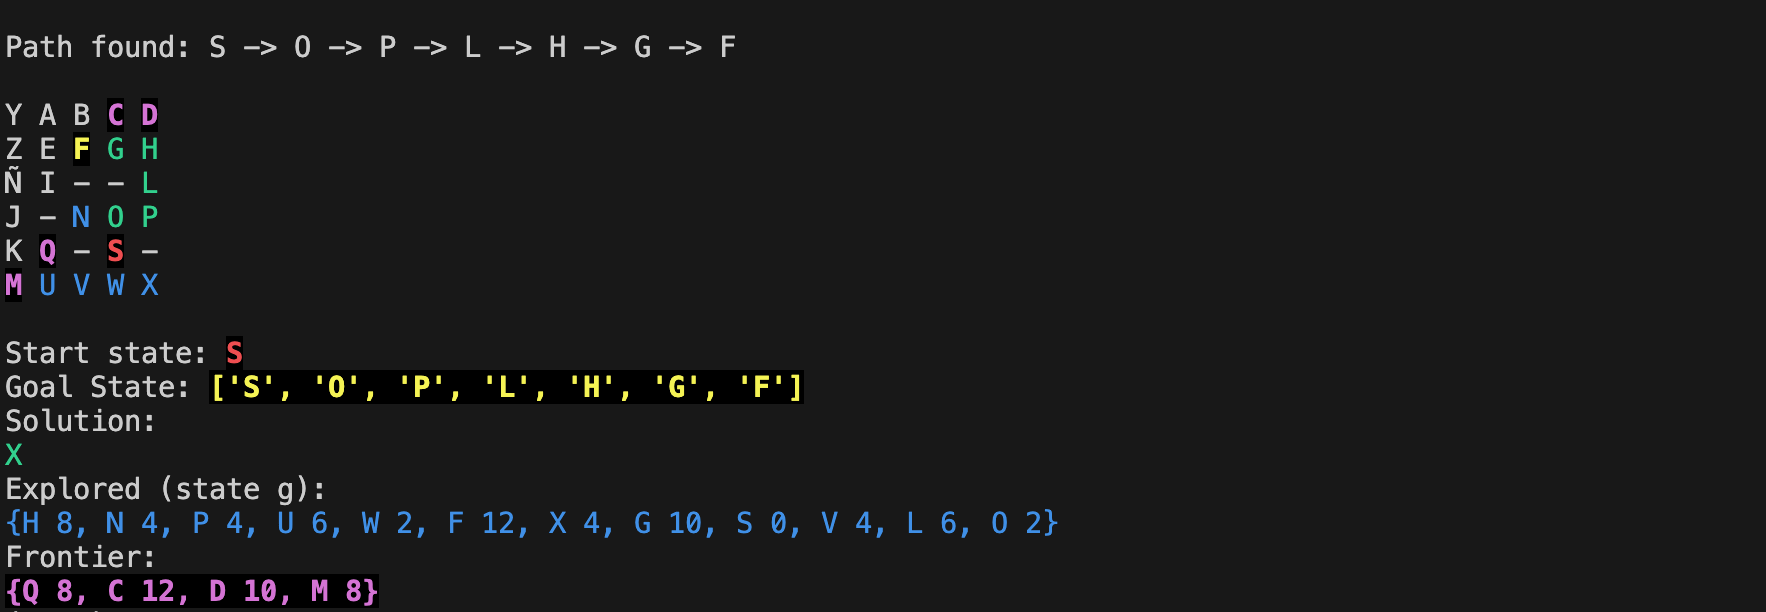
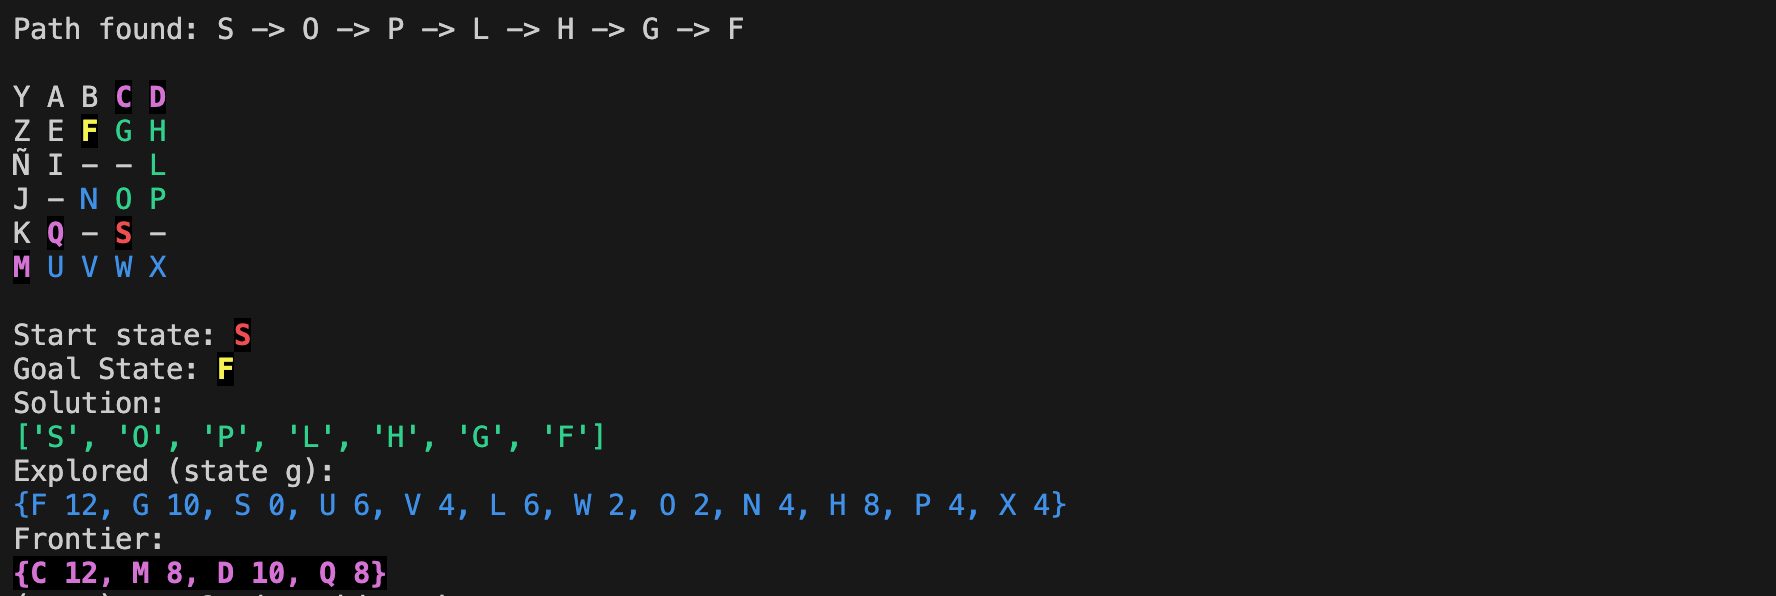
fix(A*): Corregir salida CLI formatead

diff --git a/src/output.py b/src/output.py
@@ -23,9 +23,9 @@ def problem_repr(solution, explored, frontier, initial_state, goal_state):
     print("\nStart state:", end=" ")
     _show_state_colored(initial_state, Colors.RED)
     print("\nGoal State:", end=" ")
-    _show_state_colored(solution, Colors.YELLOW)
+    _show_state_colored(goal_state, Colors.YELLOW)
     print("\nSolution: ")
-    _show_state_colored(state, Colors.GREEN)
+    _show_state_colored(solution, Colors.GREEN)
     print("\nExplored (state g): ")
     _show_state_colored(explored.get_elements(), Colors.BLUE)
     print("\nFrontier: ")

diff --git a/README.md b/README.md
@@ -31,7 +31,7 @@ o
 
 `python3 a_star.py Z N`
 
-!["CLI output Z N"](./doc/CLI.png)
+!["CLI output Z N"](./doc/CLI_1.png)
 
 `python3 a_star.py -v_c 1 -h_c 2 S F`
 
